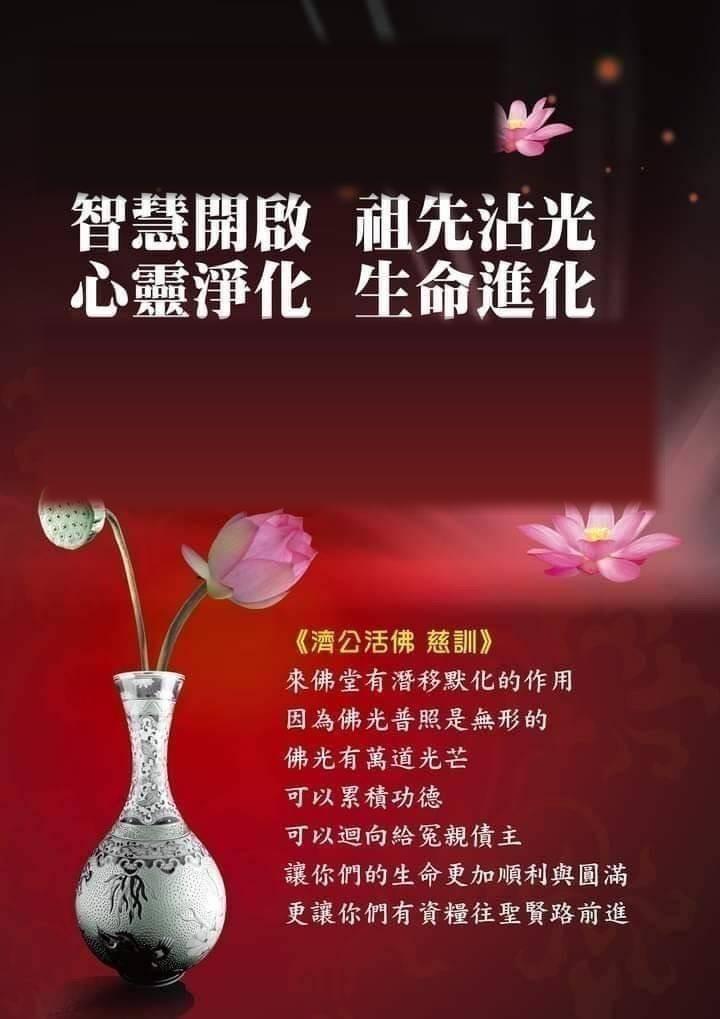
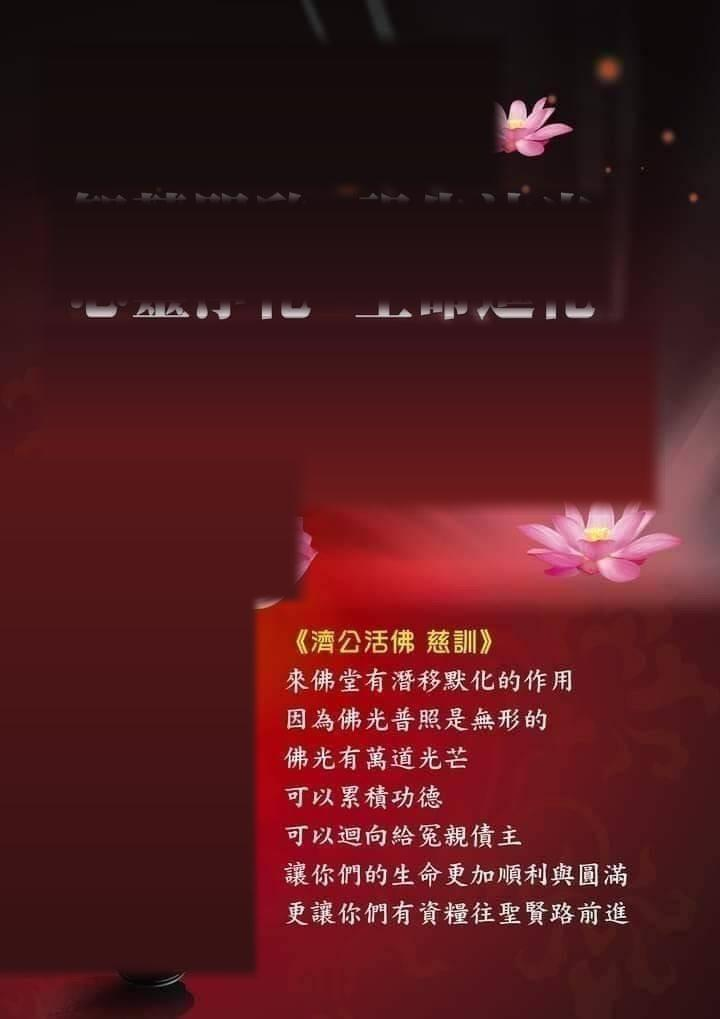
feat(course-poster): refine text sizes and scale down vase on the poster

Changed region(s): [[0.0, 0.4868, 0.4278, 0.9735], [0.4583, 0.1825, 0.825, 0.3346], [0.0917, 0.1825, 0.4278, 0.3346]]

diff --git a/public/course poster/index.html b/public/course poster/index.html
@@ -31,7 +31,7 @@
             box-shadow: 0 10px 40px rgba(0,0,0,0.6);
         }
         
-        /* 1. Top Title Overlay (replaces "研究班") */
+        /* 1. Top Title (Shrunk) */
         .title-container {
             position: absolute;
             top: 75px;
@@ -43,29 +43,48 @@
         }
         
         .org-name {
-            font-size: 26px;
+            font-size: 22px;
             font-weight: 700;
             color: rgba(255, 255, 255, 0.95);
-            letter-spacing: 6px;
-            margin-bottom: 8px;
+            letter-spacing: 5px;
+            margin-bottom: 6px;
             text-shadow: 2px 2px 4px rgba(0, 0, 0, 0.9);
         }
         
         .main-title {
-            font-size: 92px;
+            font-size: 76px;
             font-weight: 900;
             color: #f2e661;
-            letter-spacing: 8px;
+            letter-spacing: 6px;
             text-shadow: 2px 2px 5px rgba(0, 0, 0, 0.9), -1px -1px 2px rgba(0, 0, 0, 0.5);
         }
         
-        /* 2. Middle Course Info Overlay (replaces yellow quotes) */
+        /* 2. Wisdom Text (Shrunk, overlayed in HTML) */
+        .wisdom-container {
+            position: absolute;
+            top: 245px;
+            left: 95px;
+            text-align: left;
+            display: flex;
+            flex-direction: column;
+        }
+        
+        .wisdom-line {
+            font-size: 34px;
+            font-weight: 700;
+            color: #ffffff;
+            letter-spacing: 4px;
+            margin-bottom: 6px;
+            text-shadow: 2px 2px 4px rgba(0, 0, 0, 0.9);
+        }
+        
+        /* 3. Middle Course Info (Enlarged date and details) */
         .course-info-container {
             position: absolute;
-            top: 440px;
-            left: 80px;
-            width: 840px;
-            height: 245px;
+            top: 400px;
+            left: 95px;
+            width: 810px;
+            height: 380px;
             display: flex;
             flex-direction: column;
             justify-content: space-between;
@@ -78,10 +97,10 @@
         }
         
         .item-title {
-            font-size: 22px;
+            font-size: 26px;
             font-weight: 700;
             color: #f2e661;
-            margin-bottom: 2px;
+            margin-bottom: 3px;
             display: flex;
             align-items: center;
             text-shadow: 1px 1px 3px rgba(0, 0, 0, 0.9);
@@ -90,20 +109,28 @@
         .item-title::before {
             content: "";
             display: inline-block;
-            width: 4px;
-            height: 18px;
+            width: 5px;
+            height: 20px;
             background-color: #f2e661;
-            margin-right: 8px;
+            margin-right: 10px;
             border-radius: 2px;
             box-shadow: 1px 1px 2px rgba(0, 0, 0, 0.5);
         }
         
         .item-body {
-            font-size: 20px;
+            font-size: 23px;
             font-weight: 500;
             color: #ffffff;
-            padding-left: 12px;
-            line-height: 1.35;
+            padding-left: 15px;
+            line-height: 1.4;
+            text-shadow: 1px 1px 3px rgba(0, 0, 0, 0.9);
+        }
+        
+        /* Specific enlargement for date */
+        .date-body {
+            font-size: 28px;
+            font-weight: 700;
+            color: #ffffff;
             text-shadow: 1px 1px 3px rgba(0, 0, 0, 0.9);
         }
         
@@ -113,9 +140,9 @@
         }
         
         .sub-list li {
-            margin-bottom: 2px;
+            margin-bottom: 4px;
             position: relative;
-            padding-left: 16px;
+            padding-left: 18px;
         }
         
         .sub-list li::before {
@@ -124,6 +151,18 @@
             font-weight: bold;
             position: absolute;
             left: 0;
+        }
+        
+        /* 4. Shrunk Vase Image overlay (placed on bottom-left) */
+        .vase-overlay {
+            position: absolute;
+            bottom: 0px;
+            left: 0px;
+            width: 320px;
+            height: auto;
+            z-index: 10;
+            pointer-events: none;
+            filter: drop-shadow(0 4px 15px rgba(0,0,0,0.5));
         }
     </style>
 </head>
@@ -135,11 +174,17 @@
             <div class="main-title">一日基礎班</div>
         </div>
         
+        <!-- Shrunk Wisdom Text -->
+        <div class="wisdom-container">
+            <div class="wisdom-line">智慧開啟 祖先沾光</div>
+            <div class="wisdom-line">心靈淨化 生命進化</div>
+        </div>
+        
         <!-- Course details overlayed in the middle -->
         <div class="course-info-container">
             <div class="item">
                 <div class="item-title">一、課程日期</div>
-                <div class="item-body">2026年7月26日 (星期日)</div>
+                <div class="item-body date-body">2026年7月26日 (星期日)</div>
             </div>
             
             <div class="item">
@@ -162,6 +207,9 @@
                 <div class="item-body">請即日起向各區區長完成報名程序；區長統計人數後，請回報給道務組長（蔡講師）。</div>
             </div>
         </div>
+        
+        <!-- Shrunk Vase image overlayed at the bottom-left -->
+        <img src="vase_cutout.png" class="vase-overlay" alt="精緻去背花瓶">
     </div>
 </body>
 </html>
